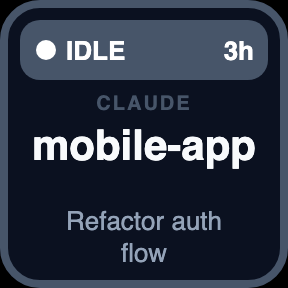
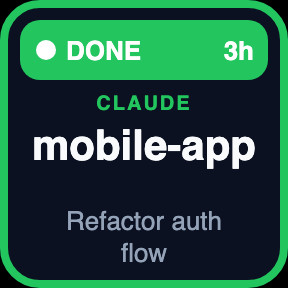
Release v0.3.5: BG status, sessions matched by id
Added: BG status (cyan, terminal icon) for an agent whose turn is over while
background shells / monitors it started still run (Claude Code session status
"shell"); pills show the shell and monitor counts. Counted under WORKING.

Fixed: Claude terminals are matched to their session by Orca's
providerSession.id before folder/title, so chats whose session name differs
from the title get the live status (25 of 25 matched here, was 15).

- plugin/claude-sessions.js: matchSession by id; countBackground and
  backgroundTasks (ps + lsof on the Claude process's shell-snapshot children)
- plugin/agents.js: background status, since = end of turn
- plugin/render.js: BG style, shell/monitor icons and pills, summary count
- tests: 34 (3 new); previews: agent-background
- README.md, CHANGELOG.md; version 0.3.5 in manifest, package, lock

Changed region(s): [[0.0625, 0.0625, 0.9375, 0.2812], [0.0, 0.0, 1.0, 1.0], [0.3125, 0.3125, 0.6562, 0.4062]]

diff --git a/com.oneatdrt.orca-agents.sdPlugin/plugin/claude-sessions.js b/com.oneatdrt.orca-agents.sdPlugin/plugin/claude-sessions.js
@@ -5,6 +5,7 @@
 // process in <config>/sessions/<pid>.json with the session id, cwd, name and busy/idle status, and
 // writes each subagent's transcript to <config>/projects/<cwd>/<session>/subagents/agent-<id>.jsonl.
 
+const { execFile } = require('node:child_process');
 const fs = require('node:fs/promises');
 const os = require('node:os');
 const path = require('node:path');
@@ -47,9 +48,12 @@ function projectDir(cwd, configDir = CONFIG_DIR) {
   return path.join(configDir, 'projects', String(cwd).replace(/[^A-Za-z0-9]/g, '-'));
 }
 
-// The live session an Orca terminal shows: same folder and the same name as the terminal's task
-// title; if that folder has exactly one live session, that one.
-function matchSession(terminal, taskName, sessions) {
+// The live session an Orca terminal shows: the session id from Orca's hook entry when there is one;
+// else same folder and the same name as the terminal's task title; else the folder's only session.
+// (A session's auto name, e.g. "paris-82", often differs from the chat title.)
+function matchSession(terminal, taskName, sessions, sessionId = null) {
+  const byId = sessionId && sessions.find((s) => s.sessionId === sessionId);
+  if (byId) return byId;
   const here = sessions.filter((s) => s.cwd === terminal.worktreePath);
   const name = String(taskName || '').trim();
   return here.find((s) => name && String(s.name || '').trim() === name) || (here.length === 1 ? here[0] : null);
@@ -91,25 +95,69 @@ async function liveSubagents(session, now = Date.now(), configDir = CONFIG_DIR) 
   return subs.sort((a, b) => a.startedAt - b.startedAt || a.id.localeCompare(b.id));
 }
 
-// handle -> { busy, status, statusAt, transcriptPath, subagents } for Claude terminals that have a live
-// session. status: Claude Code's own "busy" / "idle" / "waiting" (a dialog such as a permission
-// prompt is open); statusAt: when it last changed.
-async function liveClaudeState(terminals, taskName, now = Date.now()) {
+function run(file, args) {
+  return new Promise((resolve, reject) => {
+    execFile(file, args, { timeout: 3000, maxBuffer: 8 * 1024 * 1024 }, (error, stdout) => (error && !stdout ? reject(error) : resolve(String(stdout))));
+  });
+}
+
+// Claude Code runs every command as a child "zsh -c source …/shell-snapshots/…". While a session is
+// "shell" (its turn is over but background tasks run), each such child is a background task: one
+// writing to <tmp>/…/tasks/<id>.output is a background shell, one streaming into Claude (a pipe or
+// socket) is a monitor. -> { [claude pid]: { shells, monitors } }
+function countBackground(psText, lsofText, pids) {
+  const owner = new Map();
+  for (const line of String(psText).split('\n')) {
+    const m = /^\s*(\d+)\s+(\d+)\s+(.*)$/.exec(line);
+    if (m && pids.includes(Number(m[2])) && m[3].includes('/shell-snapshots/')) owner.set(Number(m[1]), Number(m[2]));
+  }
+  const out = {};
+  for (const pid of pids) out[pid] = { shells: 0, monitors: 0 };
+  let current = null;
+  const toFile = new Set();
+  for (const line of String(lsofText).split('\n')) {
+    if (line.startsWith('p')) current = Number(line.slice(1));
+    else if (line.startsWith('n') && /\/tasks\/[^/]+\.output$/.test(line)) toFile.add(current);
+  }
+  for (const [child, parent] of owner) out[parent][toFile.has(child) ? 'shells' : 'monitors'] += 1;
+  return out;
+}
+
+async function backgroundTasks(pids) {
+  if (!pids.length) return {};
+  const ps = await run('/bin/ps', ['-axo', 'pid=,ppid=,command=']);
+  const children = [...ps.matchAll(/^\s*(\d+)\s+(\d+)\s+.*\/shell-snapshots\//gm)].filter((m) => pids.includes(Number(m[2]))).map((m) => m[1]);
+  const lsof = children.length ? await run('/usr/sbin/lsof', ['-a', '-d', '1', '-Fpn', '-p', children.join(',')]).catch(() => '') : '';
+  return countBackground(ps, lsof, pids);
+}
+
+// handle -> { busy, status, statusAt, background, transcriptPath, subagents } for Claude terminals that
+// have a live session. status: Claude Code's own "busy" / "shell" (turn over, background tasks
+// running) / "idle" / "waiting" (a dialog such as a permission prompt is open); statusAt: when it
+// last changed; background: { shells, monitors } while "shell".
+// sessionIdOf(terminal): the Claude session id Orca knows for the terminal, if any.
+async function liveClaudeState(terminals, taskName, now = Date.now(), sessionIdOf = () => null) {
   const sessions = await readSessions();
   const out = {};
+  const matched = [];
   for (const t of terminals) {
     if (t.agentIdentity !== 'claude') continue;
-    const s = matchSession(t, taskName(t), sessions);
+    const s = matchSession(t, taskName(t), sessions, sessionIdOf(t));
     if (!s) continue;
+    matched.push([t, s]);
     out[t.handle] = {
       busy: s.status === 'busy',
       status: s.status,
       statusAt: s.statusUpdatedAt || s.updatedAt || 0,
+      background: null,
       transcriptPath: path.join(projectDir(s.cwd), `${s.sessionId}.jsonl`),
       subagents: await liveSubagents(s, now)
     };
   }
+  const shellPids = matched.filter(([, s]) => s.status === 'shell').map(([, s]) => s.pid);
+  const counts = await backgroundTasks(shellPids).catch(() => ({}));
+  for (const [t, s] of matched) if (s.status === 'shell') out[t.handle].background = counts[s.pid] || { shells: 0, monitors: 0 };
   return out;
 }
 
-module.exports = { readSessions, projectDir, matchSession, liveSubagents, liveClaudeState, SUBAGENT_ACTIVE_MS };
+module.exports = { readSessions, projectDir, matchSession, liveSubagents, liveClaudeState, countBackground, backgroundTasks, SUBAGENT_ACTIVE_MS };

diff --git a/com.oneatdrt.orca-agents.sdPlugin/plugin/render.js b/com.oneatdrt.orca-agents.sdPlugin/plugin/render.js
@@ -4,6 +4,7 @@ const STATUS_STYLE = {
   waiting: { color: '#f59e0b', label: 'WAITING' },
   working: { color: '#3b82f6', label: 'WORKING' },
   subagents: { color: '#6366f1', label: 'SUBS' },
+  background: { color: '#0891b2', label: 'BG' },
   done: { color: '#22c55e', label: 'DONE' },
   idle: { color: '#475569', label: 'IDLE' }
 };
@@ -69,6 +70,22 @@ function subagentBadge(count, color) {
 <text x="130" y="55" ${FONT} font-size="11" font-weight="800" fill="#fff" text-anchor="end">${count > 9 ? '9+' : count}</text>`;
 }
 
+// Icons for background tasks: a terminal prompt ">_" (shell) and a pulse line (monitor).
+function shellIcon(x, y, color, width = 2, scale = 1) {
+  return `<g transform="translate(${x} ${y}) scale(${scale})"><path d="M0 0l4.5 4-4.5 4" fill="none" stroke="${color}" stroke-width="${width}" stroke-linecap="round" stroke-linejoin="round"/><path d="M7 9h6" stroke="${color}" stroke-width="${width}" stroke-linecap="round"/></g>`;
+}
+
+function monitorIcon(x, y, color, width = 1.6, scale = 0.9) {
+  return `<g transform="translate(${x} ${y}) scale(${scale})"><path d="M0 5h3l2-5 3 10 2-5h3" fill="none" stroke="${color}" stroke-width="${width}" stroke-linecap="round" stroke-linejoin="round"/></g>`;
+}
+
+// BG: small pills either side of the agent name: background shells (left) and monitors (right).
+function backgroundPills(bg) {
+  if (!bg) return '';
+  const pill = (x, icon, n) => (n ? `<rect x="${x}" y="44" width="32" height="15" rx="7.5" fill="#164e63"/>${icon}<text x="${x + 27}" y="55.5" ${FONT} font-size="11" font-weight="800" fill="#cffafe" text-anchor="end">${n > 9 ? '9+' : n}</text>` : '');
+  return pill(10, shellIcon(14, 47.5, '#67e8f9', 1.6, 0.8), bg.shells) + pill(102, monitorIcon(106, 46.5, '#67e8f9'), bg.monitors);
+}
+
 // What the big text in the middle of an agent key shows: the repository or the chat (task) name.
 // 'auto' shows the chat when several agents work in the same repository, where the repo name
 // alone can't tell them apart.
@@ -104,7 +121,8 @@ function renderAgent(agent, now = Date.now(), blink = false, main = 'project') {
   const subCount = (agent.subagents || []).length;
   // Main turn over, subagents still running: fork icon instead of the dot, plus the count.
   const label = agent.status === 'subagents' ? `${style.label} ×${subCount}` : style.label;
-  const marker = agent.status === 'subagents'
+  const marker = agent.status === 'background' ? shellIcon(17, 20.5, '#fff')
+    : agent.status === 'subagents'
     ? `<path d="M20 18.5v13M20 28c0-4.5 7-4.5 7-8.5" fill="none" stroke="#fff" stroke-width="2" stroke-linecap="round" opacity="${dotOpacity}"/>
 <circle cx="20" cy="18.5" r="2.2" fill="#fff" opacity="${dotOpacity}"/><circle cx="20" cy="31.5" r="2.2" fill="#fff" opacity="${dotOpacity}"/><circle cx="27" cy="19.5" r="2.2" fill="#fff" opacity="${dotOpacity}"/>`
     : `<circle cx="23" cy="25" r="5" fill="#fff" opacity="${dotOpacity}"/>`;
@@ -118,6 +136,7 @@ ${marker}
 ${project.map((l, i) => `<text x="72" y="${projectY[i]}" ${FONT} font-size="${projectSize}" font-weight="800" fill="#f8fafc" text-anchor="middle">${escapeXml(l)}</text>`).join('')}
 ${task.map((l, i) => `<text x="72" y="${taskY[i]}" ${FONT} font-size="13" font-weight="500" fill="#94a3b8" text-anchor="middle">${escapeXml(l)}</text>`).join('')}
 ${subagentBadge(subCount, style.color)}
+${backgroundPills(agent.status === 'background' && agent.background)}
 <text x="72" y="55" ${FONT} font-size="10" font-weight="700" fill="${style.color}" text-anchor="middle" letter-spacing="1">${escapeXml(agentName)}</text>`;
   return toDataUri(svgFrame(body, border));
 }
@@ -158,15 +177,16 @@ ${lines.map((l, i) => `<text x="72" y="${72 + i * 18}" ${FONT} font-size="12" fi
   return toDataUri(svgFrame(body, '#7f1d1d'));
 }
 
-// Counts every agent that is actually working: main agents busy themselves plus each running
-// subagent (a main agent only waiting on its subagents is counted through them).
+// Counts every agent that is actually working: main agents busy themselves or running background
+// tasks (BG), plus each running subagent (a main agent only waiting on its subagents is counted
+// through them).
 function summaryCounts(agents) {
   const count = (s) => agents.filter((a) => a.status === s).length;
   const subs = agents.flatMap((a) => a.subagents || []);
   const subWaiting = subs.filter((s) => s.state !== 'working').length;
   return {
     waiting: count('waiting') + subWaiting,
-    working: count('working') + (subs.length - subWaiting),
+    working: count('working') + count('background') + (subs.length - subWaiting),
     done: count('done'),
     main: agents.length,
     subagents: subs.length

diff --git a/com.oneatdrt.orca-agents.sdPlugin/plugin/agents.js b/com.oneatdrt.orca-agents.sdPlugin/plugin/agents.js
@@ -23,7 +23,8 @@ const STATE_FILE = process.env.ORCA_AGENTS_STATE_FILE || path.join(os.tmpdir(), 
 const SAME_TURN_MS = 60 * 1000;
 
 // "subagents": the main agent's own turn is over but its subagents are still running.
-const STATUS_ORDER = { waiting: 0, working: 1, subagents: 1, done: 2, idle: 3 };
+// "background": its turn is over but background shells / monitors are still running (Claude Code "shell").
+const STATUS_ORDER = { waiting: 0, working: 1, subagents: 1, background: 1, done: 2, idle: 3 };
 
 // Hook events from the main agent itself (no toolAgentId) that mean it is still mid-turn.
 const LEAD_BUSY_EVENTS = new Set(['UserPromptSubmit', 'PreToolUse', 'PostToolUse', 'PostToolUseFailure']);
@@ -167,6 +168,7 @@ function deriveStatus(terminal, hook, now, subagentCount = 0, stoppedAt = null, 
   if ((state === 'blocked' || state === 'waiting' || state === 'permission') && !answered && !(busy && hookAge > WAITING_TRUST_MS)) return 'waiting';
   if (subagentCount > 0) return leadIsBusy(terminal, hook) ? 'working' : 'subagents';
   if (busy) return 'working';
+  if (live?.status === 'shell') return 'background';
   if (state === 'working' && hookAge < HOOK_STALE_MS) return 'working';
   const finished = finishedAt(hook, stoppedAt);
   return finished && finished > (viewedAt || 0) ? 'done' : 'idle';
@@ -235,6 +237,7 @@ function buildAgents(terminals, hookEntries, now = Date.now(), subagentMeta = {}
     const stoppedAt = watch.get(terminal.handle)?.stoppedAt || null;
     const status = deriveStatus(terminal, hook, now, subagents.length, stoppedAt, Boolean(liveState?.busy), views[pane], liveState);
     const since = (status === 'subagents' && subagents[0].startedAt)
+      || (status === 'background' && liveState.statusAt)
       || (status === 'done' && finishedAt(hook, stoppedAt))
       || hook?.stateStartedAt || hook?.receivedAt || terminal.lastOutputAt || now;
     agents.push({
@@ -248,6 +251,7 @@ function buildAgents(terminals, hookEntries, now = Date.now(), subagentMeta = {}
       task: taskLabel(terminal, hook),
       status,
       subagents,
+      background: status === 'background' ? liveState.background || { shells: 0, monitors: 0 } : null,
       since,
       lastActivity: Math.max(hook?.receivedAt || 0, terminal.lastOutputAt || 0)
     });
@@ -361,7 +365,8 @@ function markViewed(pane, now = Date.now()) {
 async function loadAgents() {
   const [terminals, hooks, acks] = await Promise.all([listTerminals(), readHookStatus(), readOrcaViews()]);
   const now = Date.now();
-  const live = await liveClaudeState(terminals.filter((t) => !t.orphaned && t.connected !== false), (t) => taskLabel(t), now).catch(() => ({}));
+  const sessionIdOf = (t) => hooks[paneKey(t)]?.providerSession?.id || null;
+  const live = await liveClaudeState(terminals.filter((t) => !t.orphaned && t.connected !== false), (t) => taskLabel(t), now, sessionIdOf).catch(() => ({}));
   const meta = { ...(await readSubagentMeta(hooks)), ...(await codexSubagentMeta(hooks).catch(() => ({}))) };
   const state = loadSaved();
   pruneSaved(state, terminals);

diff --git a/com.oneatdrt.orca-agents.sdPlugin/plugin/agents.test.js b/com.oneatdrt.orca-agents.sdPlugin/plugin/agents.test.js
@@ -336,3 +336,26 @@ test("Claude Code's live status beats a stale waiting hook entry", () => {
   // No live session (e.g. Codex): unchanged.
   assert.equal(deriveStatus(term(), perm, NOW), 'waiting');
 });
+
+test('BG: turn over, background shells / monitors still running', () => {
+  const live = { status: 'shell', statusAt: NOW - 60e3, background: { shells: 1, monitors: 1 } };
+  // Orca reports "working" for such a session; Claude Code's "shell" status wins over it.
+  assert.equal(deriveStatus(term(), hook('working', { hookEventName: 'Stop' }), NOW, 0, null, false, 0, live), 'background');
+  // A spinner (a new turn) is plain working; a permission prompt is waiting; subagents stay SUBS.
+  assert.equal(deriveStatus(term({ title: '◑ Fix login' }), hook('working'), NOW, 0, null, false, 0, live), 'working');
+  assert.equal(deriveStatus(term(), hook('working'), NOW, 0, null, false, 0, { ...live, status: 'waiting' }), 'waiting');
+  assert.equal(deriveStatus(term(), hook('working'), NOW, 1, null, false, 0, live), 'subagents');
+
+  const [agent] = buildAgents([term()], { 'tab:leaf': hook('working', { hookEventName: 'Stop' }) }, NOW, {}, new Map(), { term_1: { ...live, busy: false, subagents: [] } });
+  assert.equal(agent.status, 'background');
+  assert.deepEqual(agent.background, { shells: 1, monitors: 1 });
+  assert.equal(agent.since, NOW - 60e3);
+  const svg = decodeURIComponent(renderAgent(agent, NOW));
+  assert.match(svg, />BG</);
+  assert.match(svg, /fill="#0891b2"/);
+  assert.equal((svg.match(/fill="#164e63"/g) || []).length, 2); // shell + monitor pills
+  const onlyMonitor = decodeURIComponent(renderAgent({ ...agent, background: { shells: 0, monitors: 2 } }, NOW));
+  assert.equal((onlyMonitor.match(/fill="#164e63"/g) || []).length, 1);
+  // Counted as working in the summary.
+  assert.match(decodeURIComponent(renderSummary([agent])), /WORKING<\/text>\s*<text[^>]*>1</);
+});

diff --git a/com.oneatdrt.orca-agents.sdPlugin/plugin/claude-sessions.test.js b/com.oneatdrt.orca-agents.sdPlugin/plugin/claude-sessions.test.js
@@ -62,3 +62,28 @@ test('live state carries the session status and when it changed', async () => {
   assert.equal(s.status, 'waiting');
   assert.equal(s.statusUpdatedAt, 5);
 });
+
+test('session matched by the id from Orca before the name', () => {
+  const sessions = [
+    { sessionId: 'a', cwd: '/w', name: 'paris-82' },
+    { sessionId: 'b', cwd: '/w', name: 'Other' }
+  ];
+  const t = { worktreePath: '/w' };
+  assert.equal(matchSession(t, 'Анализ звонков', sessions, 'a').sessionId, 'a');
+  assert.equal(matchSession(t, 'Other', sessions, 'zzz').sessionId, 'b'); // unknown id: by name
+  assert.equal(matchSession(t, 'Анализ звонков', sessions), null); // two sessions, no name match
+});
+
+test('background tasks: output to a task file = shell, anything else = monitor', () => {
+  const { countBackground } = require('./claude-sessions');
+  const ps = [
+    '  100     1 claude',
+    '  201   100 /bin/zsh -c source /Users/x/.claude/shell-snapshots/snapshot-zsh-1.sh && ssh run',
+    '  202   100 /bin/zsh -c source /Users/x/.claude/shell-snapshots/snapshot-zsh-1.sh && tail -F log | grep X',
+    '  203   100 node mcp-server.cjs',
+    '  301   300 /bin/zsh -c source /Users/x/.claude/shell-snapshots/snapshot-zsh-2.sh && sleep 9'
+  ].join('\n');
+  const lsof = ['p201', 'f1', 'n/private/tmp/claude-501/-proj/sess/tasks/bgt672n5v.output', 'p202', 'f1', 'n->0x342ee3ce'].join('\n');
+  assert.deepEqual(countBackground(ps, lsof, [100]), { 100: { shells: 1, monitors: 1 } });
+  assert.deepEqual(countBackground('', '', [7]), { 7: { shells: 0, monitors: 0 } });
+});

diff --git a/scripts/previews.js b/scripts/previews.js
@@ -104,6 +104,7 @@ function previews() {
     ['agent-waiting', renderAgent(byProject('my-api'), NOW), 'WAITING: needs your input'],
     ['agent-working', renderAgent(byProject('web-app'), NOW), 'WORKING'],
     ['agent-subagents', renderAgent(byProject('backend'), NOW), 'SUBS ×2: turn over, 2 subagents running'],
+    ['agent-background', renderAgent({ ...byProject('web-app'), status: 'background', background: { shells: 1, monitors: 1 }, since: NOW - 45 * 60e3 }, NOW), 'BG: turn over, 1 shell + 1 monitor running'],
     ['subagent-1', renderSubagent(subs[0], NOW), 'Subagent 1 of 2'],
     ['subagent-2', renderSubagent(subs[1], NOW), 'Subagent 2 of 2'],
     ['agent-done', renderAgent(byProject('docs-site'), NOW), 'DONE: finished, not viewed yet'],

diff --git a/README.md b/README.md
@@ -12,7 +12,7 @@ A row of keys: an agent whose subagents are still running, its two subagent keys
 
 <table>
 <tr><td align="center"><img src="docs/previews/agent-waiting.png" width="144" alt="WAITING: needs you"><br><sub>WAITING: needs you</sub></td><td align="center"><img src="docs/previews/agent-working.png" width="144" alt="WORKING"><br><sub>WORKING</sub></td><td align="center"><img src="docs/previews/agent-subagents.png" width="144" alt="SUBS ×2: own turn over, 2 subagents running"><br><sub>SUBS ×2: own turn over, 2 subagents running</sub></td><td align="center"><img src="docs/previews/subagent-1.png" width="144" alt="Subagent key 1/2"><br><sub>Subagent key 1/2</sub></td><td align="center"><img src="docs/previews/subagent-2.png" width="144" alt="Subagent key 2/2"><br><sub>Subagent key 2/2</sub></td></tr>
-<tr><td align="center"><img src="docs/previews/agent-done.png" width="144" alt="DONE (unread)"><br><sub>DONE (unread)</sub></td><td align="center"><img src="docs/previews/agent-idle.png" width="144" alt="IDLE"><br><sub>IDLE</sub></td><td align="center"><img src="docs/previews/summary.png" width="144" alt="Orca Summary"><br><sub>Orca Summary</sub></td><td align="center"><img src="docs/previews/empty.png" width="144" alt="Empty slot"><br><sub>Empty slot</sub></td></tr>
+<tr><td align="center"><img src="docs/previews/agent-background.png" width="144" alt="BG: own turn over, 1 shell + 1 monitor running"><br><sub>BG: 1 shell + 1 monitor</sub></td><td align="center"><img src="docs/previews/agent-done.png" width="144" alt="DONE (unread)"><br><sub>DONE (unread)</sub></td><td align="center"><img src="docs/previews/agent-idle.png" width="144" alt="IDLE"><br><sub>IDLE</sub></td><td align="center"><img src="docs/previews/summary.png" width="144" alt="Orca Summary"><br><sub>Orca Summary</sub></td><td align="center"><img src="docs/previews/empty.png" width="144" alt="Empty slot"><br><sub>Empty slot</sub></td></tr>
 <tr><td align="center"><img src="docs/previews/agent-chat-name.png" width="144" alt="Main text: chat name"><br><sub>Main text: chat name</sub></td><td align="center"><img src="docs/previews/limits-overview.png" width="144" alt="AI Limits: overview"><br><sub>AI Limits: overview</sub></td><td align="center"><img src="docs/previews/limits-claude.png" width="144" alt="AI Limits: Claude (press)"><br><sub>AI Limits: Claude (press)</sub></td><td align="center"><img src="docs/previews/limits-chatgpt.png" width="144" alt="AI Limits: ChatGPT (press)"><br><sub>AI Limits: ChatGPT (press)</sub></td></tr>
 </table>
 
@@ -31,6 +31,7 @@ A row of keys: an agent whose subagents are still running, its two subagent keys
 | **WAITING** | amber, blinking border | The agent needs your input or permission |
 | **WORKING** | blue | The agent is busy |
 | **SUBS ×n** | indigo, fork icon | The agent finished its own turn but n subagents are still running; age counts from the oldest subagent |
+| **BG** | cyan, terminal icon `>_` | The agent finished its own turn but background tasks it started are still running (Claude Code's "1 shell, 1 monitor still running"). Pills either side of the agent name: `>_ n` background shells, `∿ n` monitors. Age counts from when the turn ended. Counted under WORKING in the summary |
 | **DONE** | green | The agent finished a turn you haven't looked at yet (like Orca's bell). Stays green with no timeout; turns grey 1–2 s after you open the tab, in Orca or with the key |
 | **IDLE** | grey | Nothing happening |
 
@@ -89,7 +90,7 @@ Overrides (environment variables): `ORCA_BIN`, `ORCA_HOOK_STATUS_FILE`, `ORCA_DA
 
 **Stale hook entries.** Orca stops receiving hook events from some sessions (e.g. ones started before its hooks were set up), and their last entry can be a day old. The live terminal title wins over such entries: a spinner means working, and a title that goes from spinner to `✳` while the plugin runs counts as a finished turn and shows **DONE** until you open the tab with its key. The plugin keeps these stop times and its key presses in `$TMPDIR/oneatdrt-orca-agents.json`, so they survive a Stream Dock restart. A "waiting" entry counts only while it's recent (under 10 min) if the title is spinning, and a "working" entry older than 30 min without a spinner counts as idle.
 
-**Claude Code's live state.** Some sessions never reach Orca's hook file at all, e.g. Claude Code background sessions that an Orca terminal only displays. For Claude terminals the plugin therefore also reads `~/.claude/sessions/<pid>.json` (session id, folder, name, busy/idle), matched to the terminal by folder and title. Its `status` is `waiting` while a dialog (e.g. a permission prompt) is open and changes as soon as you answer, so it beats Orca's hook entry, which keeps `PermissionRequest` until the next hook event (for an approved long command, only when the command finishes): a session that is `waiting` shows WAITING, and one whose status changed after the hook's waiting entry no longer does. It also reads that session's subagent transcripts: the ones written in the last 3 minutes count as running, with type and description from their `.meta.json`.
+**Claude Code's live state.** Some sessions never reach Orca's hook file at all, e.g. Claude Code background sessions that an Orca terminal only displays. For Claude terminals the plugin therefore also reads `~/.claude/sessions/<pid>.json` (session id, folder, name, status), matched to the terminal by the session id in Orca's hook entry (`providerSession.id`), else by folder and title (a session's auto name, e.g. `paris-82`, often differs from the chat title). Its `status` is `waiting` while a dialog (e.g. a permission prompt) is open and changes as soon as you answer, so it beats Orca's hook entry, which keeps `PermissionRequest` until the next hook event (for an approved long command, only when the command finishes): a session that is `waiting` shows WAITING, and one whose status changed after the hook's waiting entry no longer does. Status `shell` means the turn is over but background tasks run: the agent shows **BG**. The counts come from the Claude process's children: each `zsh -c source …/shell-snapshots/…` is a background task; one whose output goes to `<tmp>/…/tasks/<id>.output` is a shell, one streaming into Claude is a monitor (checked with `ps` and `lsof`, only for sessions in `shell`). It also reads that session's subagent transcripts: the ones written in the last 3 minutes count as running, with type and description from their `.meta.json`.
 
 **Codex subagent names.** Codex gives a subagent the role and model `default` when its spawn names none, and Orca reports that as-is (for example when a Claude agent runs `codex exec`). For such entries the plugin opens the subagent's Codex session file (`~/.codex/sessions/YYYY/MM/DD/rollout-…-<thread id>.jsonl`, looked up by id in the last 3 days) and shows its task (`agent_path`), nickname and real model instead.
 

diff --git a/CHANGELOG.md b/CHANGELOG.md
@@ -2,6 +2,17 @@
 
 All notable changes to this project. Versions follow [Semantic Versioning](https://semver.org).
 
+## [v0.3.5](https://github.com/OneAtDrt/stream_dock_orca/releases/tag/v0.3.5) — BG status, sessions matched by id
+
+### Added
+* **BG** status (cyan, terminal icon): the agent finished its turn but background tasks it started still run (Claude Code's "1 shell, 1 monitor still running", session status `shell`). Pills either side of the agent name show `>_ n` background shells and `∿ n` monitors; age counts from the end of the turn; counted under WORKING in the summary. Before, such an agent showed plain WORKING ([COMMIT])
+* Counts from the Claude process's children (`ps` + `lsof`, only for sessions in `shell`): a `zsh -c source …/shell-snapshots/…` child writing to `<tmp>/…/tasks/<id>.output` is a shell, one streaming into Claude is a monitor ([COMMIT])
+
+### Fixed
+* Claude terminals are matched to their Claude Code session by the session id in Orca's hook entry (`providerSession.id`) before the folder/title match. Chats whose session name differs from the title (auto names like `paris-82`) in a folder with several sessions had no live status (busy / waiting / subagents); on this machine 25 of 25 Claude terminals are now matched instead of 15 ([COMMIT])
+* Files: `plugin/claude-sessions.js` (`matchSession` by id, `countBackground`, `backgroundTasks`), `plugin/agents.js` (`background` status), `plugin/render.js` (BG style, icons, pills, summary), `plugin/agents.test.js`, `plugin/claude-sessions.test.js`, `scripts/previews.js`, `docs/previews/*`, `README.md`, `CHANGELOG.md`; version 0.3.5 in `manifest.json`, `package.json`, `package-lock.json` ([COMMIT])
+* Tests: 34 ([COMMIT])
+
 ## [v0.3.4](https://github.com/OneAtDrt/stream_dock_orca/releases/tag/v0.3.4) — WAITING clears when you answer
 
 ### Fixed
